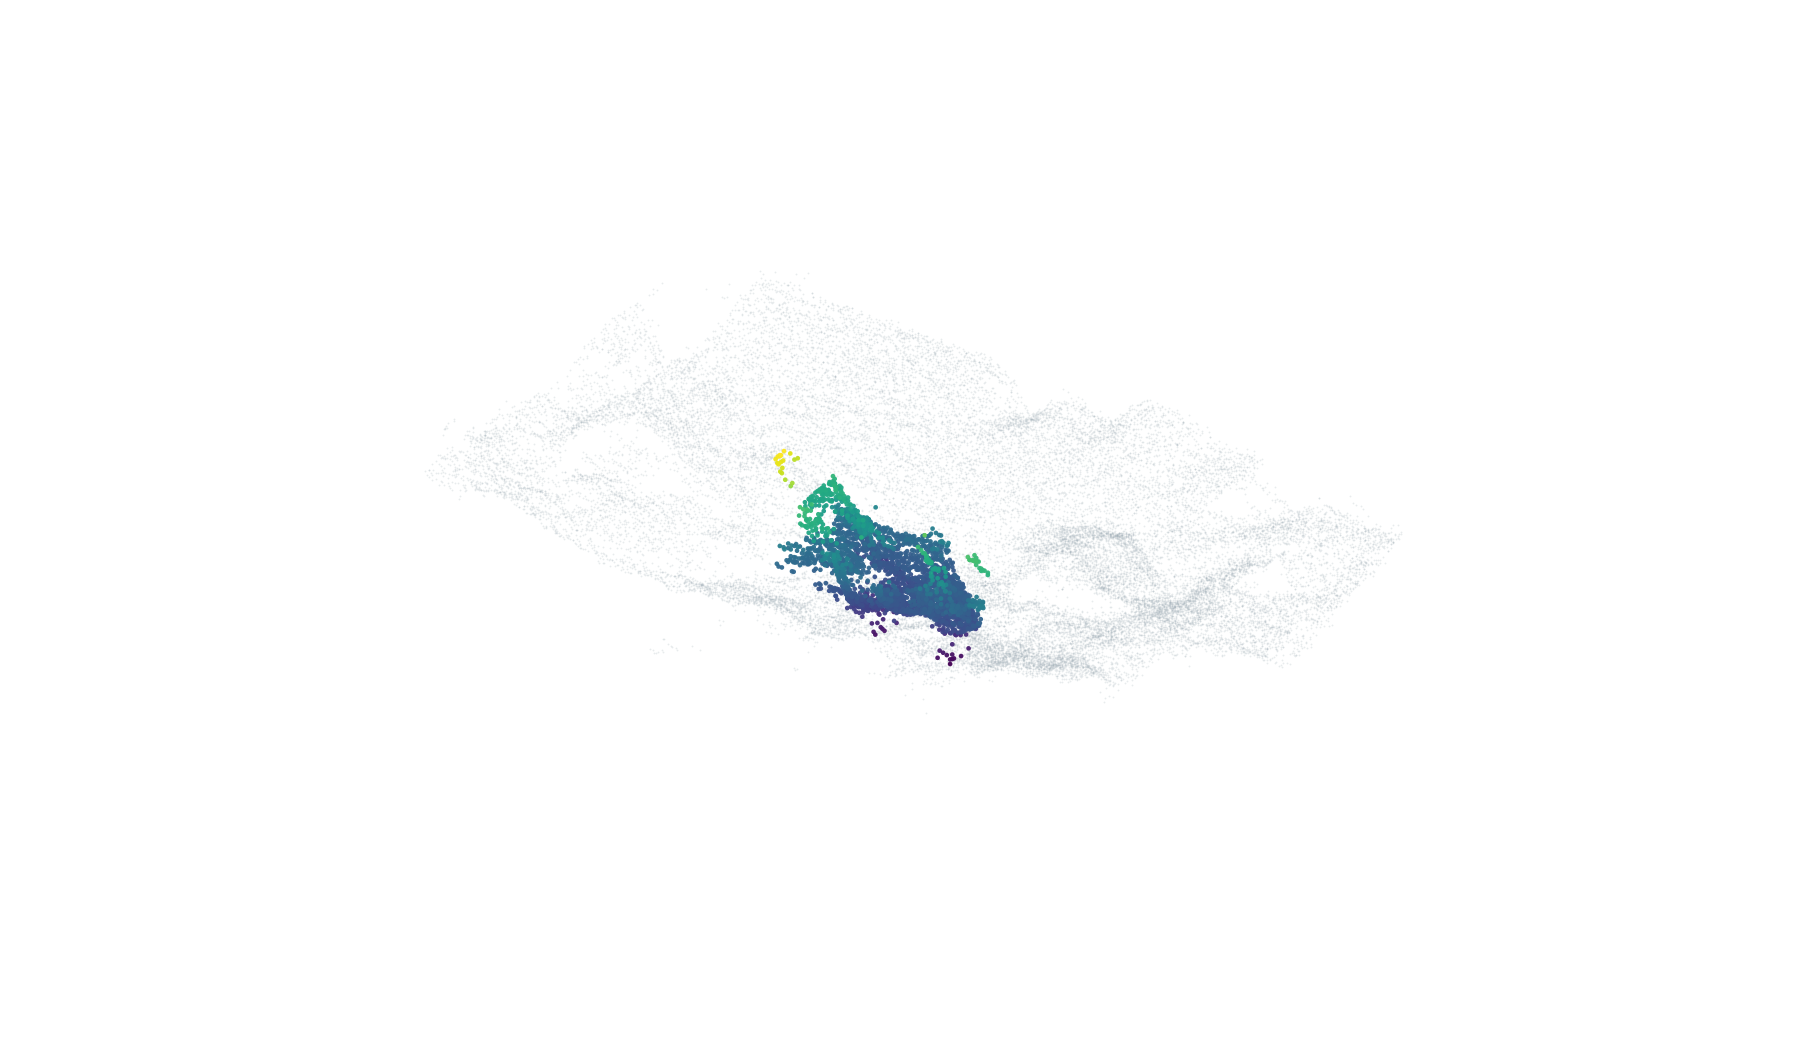
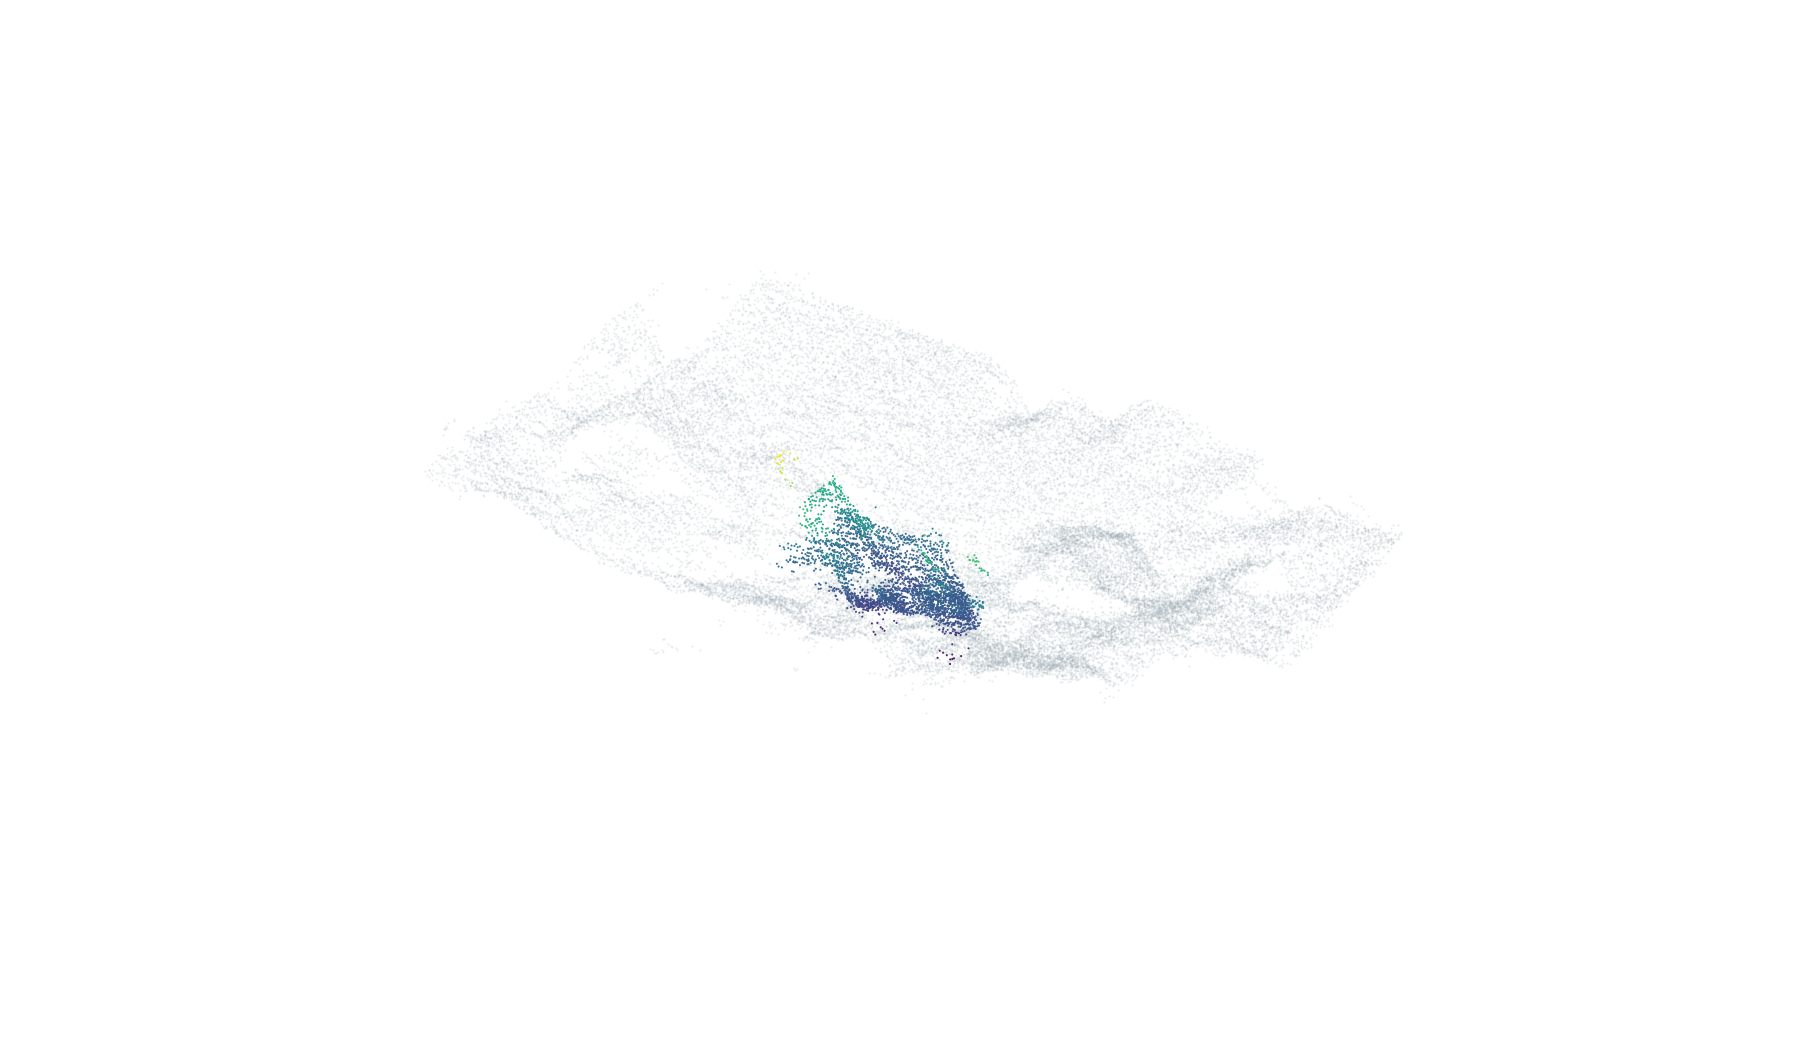
Unify Multibeam point size and simplify damage result CSVs

Changed region(s): [[0.4356, 0.4571, 0.56, 0.6095]]

diff --git a/Demo/Multibeam/Code/export_results.py b/Demo/Multibeam/Code/export_results.py
@@ -28,8 +28,8 @@ ROOT = CODE.parent
 DEFAULT_WORK = ROOT.parent / "unmodified_multibeam" / "Multibeam_work"
 FIELDS = ["dataset", "damage_id", "source_damage_id", "damage_type", "damage_name_ko",
           "world_center_x_m", "world_center_y_m", "world_center_z_m", "crs",
-          "area_m2", "mean_depth_m", "max_depth_m", "median_depth_m", "volume_loss_m3",
-          "point_count", "pointcloud_selection", "analysis_method", "analysis_resolution_m", "result_origin",
+          "area_m2", "mean_depth_m", "volume_loss_m3",
+          "point_count", "analysis_resolution_m",
           "source_data_path", "pointcloud_path", "visualization_path", "boundary_xy_json"]
 KEY_DTYPE = np.dtype([("X", "<i4"), ("Y", "<i4"), ("Z", "<i4")])
 
@@ -124,7 +124,7 @@ def read_existing(output):
                 for row in csv.DictReader(stream):
                     if "overlay_path" in row:
                         row["visualization_path"] = row.pop("overlay_path")
-                    rows.append(row)
+                    rows.append({name: row[name] for name in FIELDS})
     return rows
 
 
@@ -303,14 +303,20 @@ def export_results(results, source_input, las_source=None, output=None, work=Non
             report.append(verify_las(feature, staging, native_header))
             report[-1]["visualization"] = make_visualization(feature, staging)
             center = feature["geometry"].centroid
-            new_rows.append(dict(zip(FIELDS, [source_input.stem, feature["id"], feature["source_id"], feature["kind"],
-                "세굴" if feature["kind"] == "SC" else "슬래브 함몰", float(center.x), float(center.y), feature["center_z"],
-                "EPSG:5186", feature["area"], feature["mean_depth"], feature["max_depth"], feature["median_depth"], feature["volume"],
-                feature["point_count"], feature["selection"], method if feature["kind"] == "SC" else "reference_plane",
-                resolution if feature["kind"] == "SC" else "", result_origin,
-                os.path.relpath(source_input, output / "Result"),
-                f"{feature['kind']}/{feature['id']}.las", f"../Visualiza/{feature['kind']}/{feature['id']}.png",
-                json.dumps(shapely.geometry.mapping(feature["geometry"]), separators=(",", ":"))], strict=True)))
+            new_rows.append({
+                "dataset": source_input.stem, "damage_id": feature["id"],
+                "source_damage_id": feature["source_id"], "damage_type": feature["kind"],
+                "damage_name_ko": "세굴" if feature["kind"] == "SC" else "슬래브 함몰",
+                "world_center_x_m": float(center.x), "world_center_y_m": float(center.y),
+                "world_center_z_m": feature["center_z"], "crs": "EPSG:5186",
+                "area_m2": feature["area"], "mean_depth_m": feature["mean_depth"],
+                "volume_loss_m3": feature["volume"], "point_count": feature["point_count"],
+                "analysis_resolution_m": resolution if feature["kind"] == "SC" else "",
+                "source_data_path": os.path.relpath(source_input, output / "Result"),
+                "pointcloud_path": f"{feature['kind']}/{feature['id']}.las",
+                "visualization_path": f"../Visualiza/{feature['kind']}/{feature['id']}.png",
+                "boundary_xy_json": json.dumps(shapely.geometry.mapping(feature["geometry"]), separators=(",", ":")),
+            })
             print(f"{feature['id']}: {feature['point_count']:,} measured points; 3D PNG rendered", flush=True)
         rows = [row for row in old_rows if row["dataset"] != source_input.stem] + new_rows
         for kind in ("SC", "DP"):

diff --git a/Demo/Multibeam/Code/visualize_results.py b/Demo/Multibeam/Code/visualize_results.py
@@ -23,6 +23,7 @@ from shapely.geometry import shape
 
 ROOT = Path(__file__).resolve().parent.parent
 DEFAULT_WORK = ROOT.parent / "unmodified_multibeam/Multibeam_work"
+REMOVED_CSV_FIELDS = {"max_depth_m", "median_depth_m", "pointcloud_selection", "analysis_method", "result_origin"}
 
 
 def seed_for(identifier):
@@ -118,10 +119,10 @@ def make_visualization(feature, staging):
     ax = fig.add_axes([0, 0, 1, 1], projection="3d", computed_zorder=False)
     ax.set_facecolor("white")
     if len(context):
-        ax.scatter(context[:, 0], context[:, 1], context[:, 2], c="#9cabb5", s=0.75,
+        ax.scatter(context[:, 0], context[:, 1], context[:, 2], c="#9cabb5", s=1,
                    alpha=0.23, linewidths=0, depthshade=False, zorder=1)
     ax.scatter(cloud[:, 0], cloud[:, 1], cloud[:, 2], c=values, cmap=cmap, norm=norm,
-               s=5 if len(cloud) < 5_000 else 0.9, alpha=0.95, linewidths=0,
+               s=1, alpha=0.95, linewidths=0,
                depthshade=False, zorder=2)
     ax.set_xlim(limits[:, 0])
     ax.set_ylim(limits[:, 1])
@@ -136,7 +137,8 @@ def make_visualization(feature, staging):
     plt.close(fig)
     return {"id": feature["id"], "sampled_damage_points": len(xyz),
             "sampled_context_points": len(context), "vertical_detail_factor": 1, "view_count": 1, "annotations": False,
-            "true_scale": True, "image_size": [1800, 1050], "observed_xyz_only": True}
+            "true_scale": True, "image_size": [1800, 1050], "observed_xyz_only": True,
+            "damage_point_size_pt2": 1, "context_point_size_pt2": 1}
 
 
 def main():
@@ -154,9 +156,12 @@ def main():
             continue
         with path.open(encoding="utf-8-sig", newline="") as stream:
             reader = csv.DictReader(stream)
-            fields = ["visualization_path" if name == "overlay_path" else name for name in reader.fieldnames]
+            fields = ["visualization_path" if name == "overlay_path" else name
+                      for name in reader.fieldnames if name not in REMOVED_CSV_FIELDS]
             rows = list(reader)
         for row in rows:
+            for name in REMOVED_CSV_FIELDS:
+                row.pop(name, None)
             row.pop("overlay_path", None)
             row["visualization_path"] = f"../Visualiza/{kind}/{row['damage_id']}.png"
             geometry = shape(json.loads(row["boundary_xy_json"]))
@@ -164,7 +169,7 @@ def main():
             margin = max(2.0, max(east - west, north - south) * 0.15)
             features.append({"kind": kind, "id": row["damage_id"], "geometry": geometry,
                              "area": float(row["area_m2"]), "mean_depth": float(row["mean_depth_m"]),
-                             "max_depth": float(row["max_depth_m"]), "center_z": float(row["world_center_z_m"]),
+                             "center_z": float(row["world_center_z_m"]),
                              "point_count": int(row["point_count"]),
                              "context_bounds": [west - margin, south - margin, east + margin, north + margin],
                              "source": (output / "Result" / row["source_data_path"]).resolve()})

diff --git a/Demo/Multibeam/README.md b/Demo/Multibeam/README.md
@@ -1,6 +1,6 @@
 # Multibeam 손상 탐지 산출물
 
-대청댐 A 멀티빔 원본 점군에서 검출된 **세굴(SC) 2개, 슬래브 함몰(DP) 4개**를 손상별 LAS 점군·Visualiza 3D PNG·CSV로 정리했습니다. 기존 CUBE, 세굴 검출, 슬래브 추출, 함몰 검출 알고리즘과 원본 손상 수치를 유지했습니다. 현재 산출물은 기존 A 분석 결과에서 추출한 결과이며, 재계산 결과와 CSV의 `result_origin`으로 구분합니다.
+대청댐 A 멀티빔 원본 점군에서 검출된 **세굴(SC) 2개, 슬래브 함몰(DP) 4개**를 손상별 LAS 점군·Visualiza 3D PNG·CSV로 정리했습니다. 기존 CUBE, 세굴 검출, 슬래브 추출, 함몰 검출 알고리즘과 원본 손상 수치를 유지했습니다. 현재 산출물은 기존 A 분석 결과에서 추출한 결과입니다.
 
 ## 폴더 구성
 
@@ -40,7 +40,7 @@ Multibeam/
 
 각 손상은 **LAS 1개와 PNG 1개**에 대응합니다. PNG는 1800×1050의 단일 3D 점군 스냅샷이며, XYZ 실제 축척(1:1:1)을 사용합니다. 글자·범례·축·눈금·격자·중앙점 마커 없이 점군 형상만 표시합니다.
 
-이미지에는 점 수 제한만 적용하며, LAS의 관측 XYZ·점 속성·전체 점 수는 유지합니다. 주변 관측점은 회색으로 표시합니다. 세굴의 색은 실제 표고, 함몰의 색은 해당 관측점의 `depression_depth_m`입니다. 점별 함몰 깊이와 CSV의 격자 패치 깊이는 원본 계산 대상이 다르므로 값이 다를 수 있습니다.
+손상점과 주변 회색 점의 표시 크기는 모두 `s=1`(pt²)입니다. 이미지에는 점 수 제한만 적용하며, LAS의 관측 XYZ·점 속성·전체 점 수는 유지합니다. 주변 관측점은 회색으로 표시합니다. 세굴의 색은 실제 표고, 함몰의 색은 해당 관측점의 `depression_depth_m`입니다. 점별 함몰 깊이와 CSV의 격자 패치 깊이는 원본 계산 대상이 다르므로 값이 다를 수 있습니다.
 
 ## 현재 산출물
 
@@ -75,25 +75,22 @@ Multibeam/
 | `world_center_x_m`, `world_center_y_m`, `world_center_z_m` | 손상 중앙 표출 좌표. |
 | `crs` | EPSG:5186. |
 | `area_m2` | 원본 손상 면적. |
-| `mean_depth_m`, `max_depth_m` | 원본 패치 평균·최대 깊이. |
-| `median_depth_m` | 원본 세굴 중앙 깊이. 함몰은 빈값. |
+| `mean_depth_m` | 원본 패치 평균 깊이. |
 | `volume_loss_m3` | 원본 함몰 체적. 세굴은 빈값. |
 | `point_count` | 해당 LAS에 저장된 점 수. |
-| `pointcloud_selection` | `raw_points_in_polygon`: 세굴 영역 내 원본점. `damage_candidates`: 함몰 영역 내 원본 후보점. `cleaned_patch_points`: 점별 후보가 없는 검출 패치의 실제 정제 관측점. |
-| `analysis_method`, `analysis_resolution_m` | 세굴 처리 방법·격자 해상도. 함몰 방법은 `reference_plane`. |
-| `result_origin` | `existing_results`: 기존 검출 결과에서 추출. `computed`: 실행 코드로 새로 계산. |
+| `analysis_resolution_m` | 세굴 격자 해상도. 함몰은 빈값. |
 | `source_data_path` | 원본 입력 경로. CSV 기준 상대경로. |
 | `pointcloud_path`, `visualization_path` | 손상 LAS·PNG 경로. CSV 기준 상대경로. |
 | `boundary_xy_json` | 원본 검출 경계와 내부 구멍을 포함한 GeoJSON 형식 좌표. EPSG:5186, m. |
 
 ## 다운로드
 
-원본 LAS(약 1.27GB)와 SC-002 LAS(약 110MB)는 GitHub 저장소의 파일 크기 제한을 넘으므로 [Multibeam Release](https://github.com/Jiwandukong/Dam_Damge_Module/releases/tag/multibeam-demo-v3)로 제공합니다. 작은 LAS, Visualiza 3D PNG, CSV, 실행 코드는 저장소에 포함합니다.
+원본 LAS(약 1.27GB)와 SC-002 LAS(약 110MB)는 GitHub 저장소의 파일 크기 제한을 넘으므로 [Multibeam Release](https://github.com/Jiwandukong/Dam_Damge_Module/releases/tag/multibeam-demo-v4)로 제공합니다. 작은 LAS, Visualiza 3D PNG, CSV, 실행 코드는 저장소에 포함합니다.
 
 | Release 파일 | 내용 |
 |---|---|
-| [multibeam_A_rawdata.zip](https://github.com/Jiwandukong/Dam_Damge_Module/releases/download/multibeam-demo-v3/multibeam_A_rawdata.zip) | `Data/0913_multibeam_A_align.las`. |
-| [multibeam_A_results.zip](https://github.com/Jiwandukong/Dam_Damge_Module/releases/download/multibeam-demo-v3/multibeam_A_results.zip) | `Output/`의 LAS 6개, PNG 6개, CSV 2개 전체. |
+| [multibeam_A_rawdata.zip](https://github.com/Jiwandukong/Dam_Damge_Module/releases/download/multibeam-demo-v4/multibeam_A_rawdata.zip) | `Data/0913_multibeam_A_align.las`. |
+| [multibeam_A_results.zip](https://github.com/Jiwandukong/Dam_Damge_Module/releases/download/multibeam-demo-v4/multibeam_A_results.zip) | `Output/`의 LAS 6개, PNG 6개, CSV 2개 전체. |
 
 `Demo/Multibeam` 폴더에서 다음 명령으로 다운로드·압축 해제합니다. ZIP과 내부 파일의 SHA256을 확인합니다.
 
@@ -163,4 +160,4 @@ Python 3.13 환경에서 실행합니다.
 
 원본 predicted 방법에서 발생하는 division-by-zero 등 기존 계산의 실패는 작업 로그에 기록합니다. 알고리즘 SHA256을 항상 확인하며, 원본 노트북 보관본이 있는 환경에서는 계산 AST와 원본 13개 파일도 대조합니다.
 
-함몰 격자 패치와 개별 점 후보는 원본 알고리즘에서 서로 다른 MAD 기준으로 검출합니다. 새로운 입력에서 검출 패치 안에 개별 후보점이 없으면 그 패치의 실제 정제 관측점을 추출하고 `pointcloud_selection`에 기록합니다. 현재 A 산출물 4개는 모두 기존 후보점을 사용했습니다.
+함몰 격자 패치와 개별 점 후보는 원본 알고리즘에서 서로 다른 MAD 기준으로 검출합니다. 새로운 입력에서 검출 패치 안에 개별 후보점이 없으면 그 패치의 실제 정제 관측점을 추출하고 최종 산출물 폴더 밖의 검증 기록에 추출 방식을 저장합니다. 현재 A 산출물 4개는 모두 기존 후보점을 사용했습니다.

diff --git a/Demo/Multibeam/Data/README.md b/Demo/Multibeam/Data/README.md
@@ -2,7 +2,7 @@
 
 입력 파일은 `0913_multibeam_A_align.las`이며 48,890,044개의 관측점을 포함합니다.
 
-대용량 파일은 [Multibeam Release](https://github.com/Jiwandukong/Dam_Damge_Module/releases/tag/multibeam-demo-v3)의 `multibeam_A_rawdata.zip`으로 제공합니다. ZIP의 `Data/`를 프로젝트 아래에 압축 해제하거나, 프로젝트 폴더에서 실행하세요.
+대용량 파일은 [Multibeam Release](https://github.com/Jiwandukong/Dam_Damge_Module/releases/tag/multibeam-demo-v4)의 `multibeam_A_rawdata.zip`으로 제공합니다. ZIP의 `Data/`를 프로젝트 아래에 압축 해제하거나, 프로젝트 폴더에서 실행하세요.
 
 ```bash
 python3 Code/download_assets.py --scope raw
